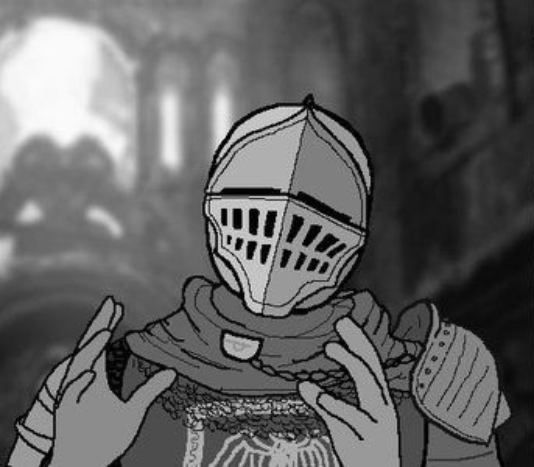
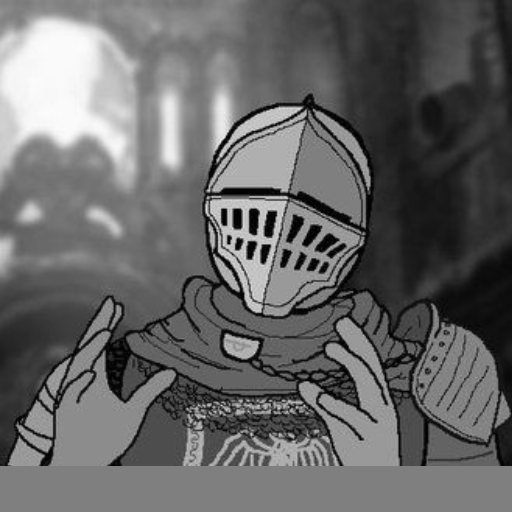
Updated aspect ratio of texture

diff --git a/src/app/ProfExercises.cpp b/src/app/ProfExercises.cpp
@@ -208,8 +208,8 @@ void makeCylinder(Mesh &m, float length, float radius, int faceCnt) {
         vleft.color = glm::vec4(1,0,0,1);
         vright.color = glm::vec4(0,1,0,1);
 
-        vleft.texcoord = glm::vec2(0.0f, ((float)i)/20.0f);
-        vright.texcoord = glm::vec2(1.0f, ((float)i)/20.0f);
+        vleft.texcoord = glm::vec2(0.0f, 2.0f*((float)i)/faceCnt);
+        vright.texcoord = glm::vec2(2.0f, 2.0f*((float)i)/faceCnt);
 
         m.vertices.push_back(vleft);
         m.vertices.push_back(vright);
@@ -343,7 +343,7 @@ int main(int argc, char **argv) {
     GLint lightPosLoc = glGetUniformLocation(progID, "light.pos");
     GLint lightColorLoc = glGetUniformLocation(progID, "light.color");
 
-    string textureFilename = "./image01.png";
+    string textureFilename = "./test.png";
     int texWidth, texHeight, texComponents;
     stbi_set_flip_vertically_on_load(true);
     unsigned char *imageData = stbi_load(textureFilename.c_str(), 
@@ -367,6 +367,13 @@ int main(int argc, char **argv) {
         
         glTexParameteri(GL_TEXTURE_2D, GL_TEXTURE_MIN_FILTER, GL_LINEAR);
         glTexParameteri(GL_TEXTURE_2D, GL_TEXTURE_MAG_FILTER, GL_LINEAR);
+
+        glTexParameteri(GL_TEXTURE_2D, 
+                        GL_TEXTURE_WRAP_S, 
+                        GL_MIRRORED_REPEAT);
+        glTexParameteri(GL_TEXTURE_2D, 
+                        GL_TEXTURE_WRAP_T, 
+                        GL_MIRRORED_REPEAT);
         glBindTexture(GL_TEXTURE_2D, 0);
 
         stbi_image_free(imageData);
